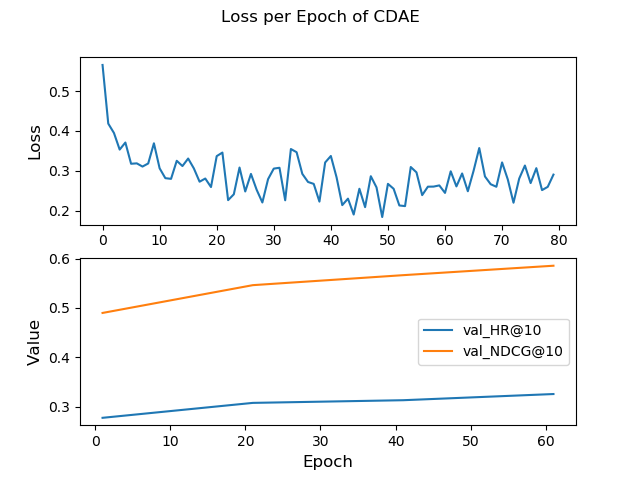
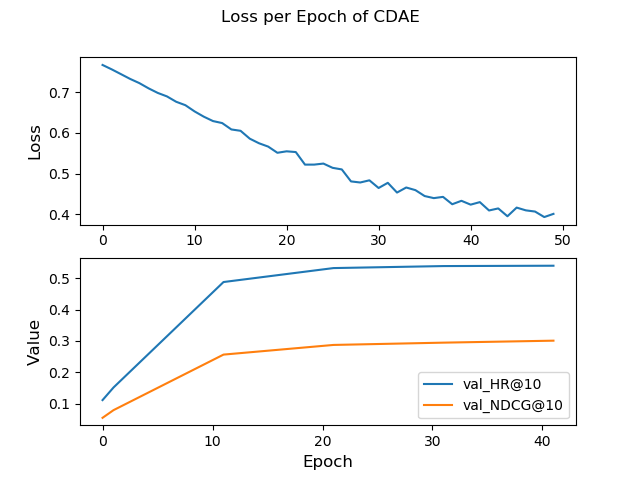
Update examples because of slight workflow change

diff --git a/examples/consistency_eval/dmf.py b/examples/consistency_eval/dmf.py
@@ -7,15 +7,20 @@ from DRecPy.Evaluation.Metrics import hit_ratio
 import time
 
 ds = get_full_dataset('ml-100k')
-ds_train, ds_test = leave_k_out(ds, k=1, last_timestamps=True, seed=0)
+ds_train, ds_test = leave_k_out(ds, k=1, last_timestamps=True, seed=10)
+
+ds_train_bin = ds_train.copy()
+ds_train_bin.apply('interaction', lambda x: 1)
+ds_test_bin = ds_test.copy()
+ds_test_bin.apply('interaction', lambda x: 1)
 
 for nce in [True, False]:
     print('NCE =', nce)
     start_train = time.time()
-    dmf = DMF(batch_size=256, use_nce=nce, user_factors=[128, 64], item_factors=[128, 64], seed=10)
-    dmf.fit(ds_train, epochs=200, learning_rate=0.0001, neg_ratio=5)
+    dmf = DMF(use_nce=nce, user_factors=[128, 64], item_factors=[128, 64], seed=10)
+    dmf.fit(ds_train if nce else ds_train_bin, epochs=50, batch_size=256, learning_rate=0.001, reg_rate=0.0001, neg_ratio=5)
     print("Training took", time.time() - start_train)
 
-    print(ranking_evaluation(dmf, ds_test, n_pos_interactions=1, n_neg_interactions=100, generate_negative_pairs=True,
+    print(ranking_evaluation(dmf, ds_test if nce else ds_test_bin, n_pos_interactions=1, n_neg_interactions=100, generate_negative_pairs=True,
                              novelty=True, k=list(range(1, 11)), metrics={'HR': (hit_ratio, {}), 'NDCG': (ndcg, {})},
                              seed=10))

diff --git a/examples/cdae_validation.py b/examples/cdae_validation.py
@@ -17,13 +17,13 @@ def epoch_callback_fn(model):
     return {'val_' + metric: v for metric, v in
             ranking_evaluation(model, ds_val, n_pos_interactions=1, n_neg_interactions=100,
                                generate_negative_pairs=True, k=10, verbose=False, seed=10,
-                               metrics={'HR': (ndcg, {}), 'NDCG': (hit_ratio, {})}).items()}
+                               metrics={'HR': (hit_ratio, {}), 'NDCG': (ndcg, {})}).items()}
 
 
 start_train = time.time()
 cdae = CDAE(hidden_factors=50, corruption_level=0.2, loss='bce', seed=10)
-cdae.fit(ds_train, learning_rate=0.001, reg_rate=0.001, epochs=80, batch_size=64, neg_ratio=5,
-         epoch_callback_fn=epoch_callback_fn, epoch_callback_freq=20)
+cdae.fit(ds_train, learning_rate=0.001, reg_rate=0.001, epochs=50, batch_size=64, neg_ratio=5,
+         epoch_callback_fn=epoch_callback_fn, epoch_callback_freq=10)
 print("Training took", time.time() - start_train)
 
 print(ranking_evaluation(cdae, ds_test, k=[1, 5, 10], novelty=True, n_pos_interactions=1,

diff --git a/examples/cdae.py b/examples/cdae.py
@@ -9,7 +9,7 @@ ds_test = get_test_dataset('ml-100k')
 
 start_train = time.time()
 cdae = CDAE(hidden_factors=50, corruption_level=0.2, loss='bce', seed=10)
-cdae.fit(ds_train, learning_rate=0.001, reg_rate=0.0, epochs=50, batch_size=64, neg_ratio=5)
+cdae.fit(ds_train, learning_rate=0.001, reg_rate=0.001, epochs=50, batch_size=64, neg_ratio=5)
 print("Training took", time.time() - start_train)
 
 print(ranking_evaluation(cdae, ds_test, k=[1, 5, 10], novelty=True, n_test_users=100, n_pos_interactions=1,
